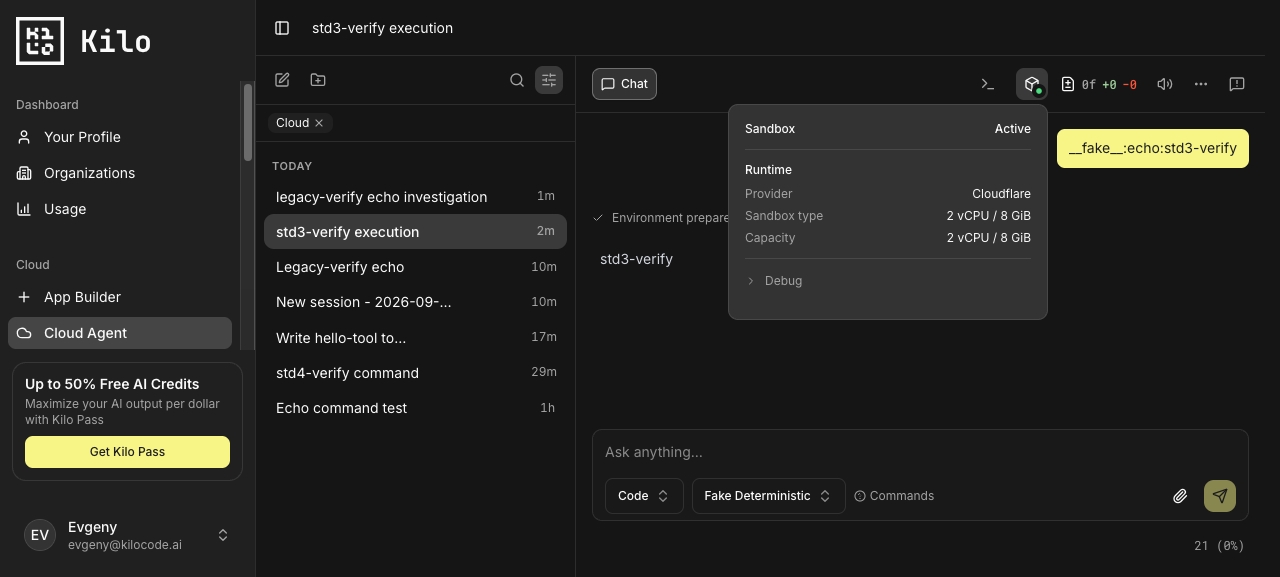
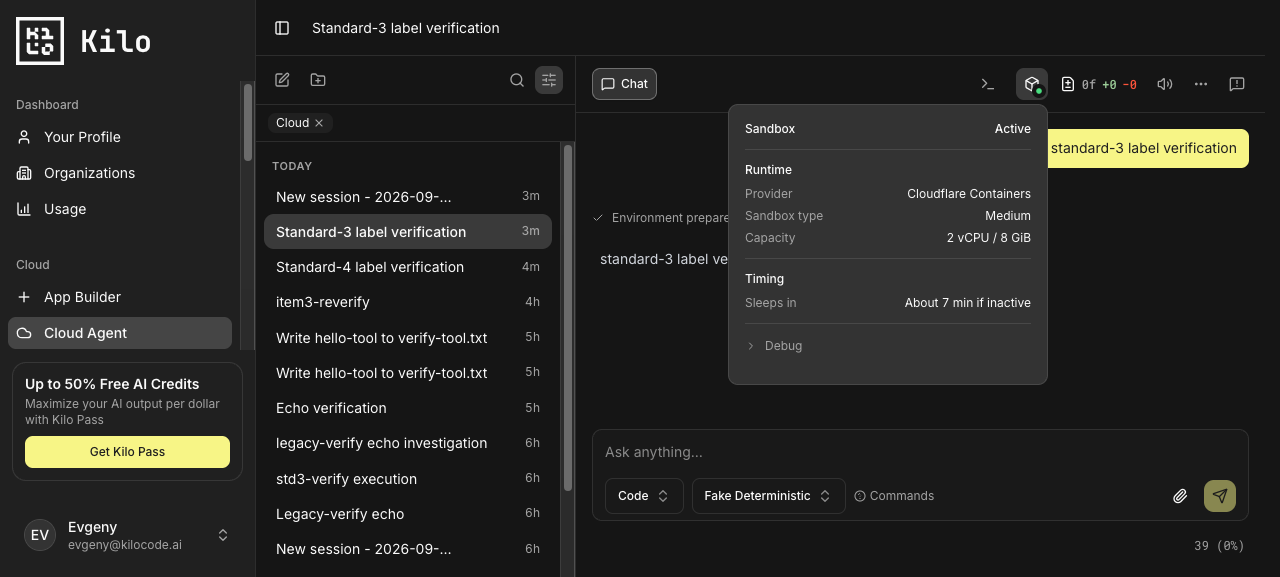
refactor(cloud-agent-next): label sandbox tiers with a memory ladder
Name Cloudflare, Cloudflare Containers and Vercel sandboxes by one memory ladder (Small <= 6 GiB, Medium 8 GiB, Large 12 GiB), so the status popover and the new-session picker use the same words across providers and the containers type row stops repeating the capacity row. Label only: stored identifiers, the sandboxType enum, runtime metadata and capacity numbers are unchanged.

- popover: containers standard-3/4 render Medium/Large; provider reads Cloudflare Containers
- shared tenancy reads Large . Shared so it stays distinct from the dedicated Large at the same capacity
- picker keeps vCPU/memory numbers by resolving capacity from the billing service rather than the label

diff --git a/apps/web/src/components/cloud-agent-next/sandbox-selection.ts b/apps/web/src/components/cloud-agent-next/sandbox-selection.ts
@@ -1,5 +1,7 @@
 import {
+  getKiloSandboxAllocation,
   getSandboxAllocationKey,
+  getSandboxAllocationResources,
   type SelectableSandboxAllocationRequest,
   type SandboxDestination,
   type SandboxSelectionCapabilities,
@@ -26,17 +28,19 @@ const cloudflareServices: Partial<Record<SandboxDestination['instanceType'], str
   shared: 'cloud-agent-next-sandbox',
   'isolated-standard': 'cloud-agent-next-sandbox',
   devcontainer: 'cloud-agent-next-sandbox-dind',
+  'standard-3': 'cloud-agent-next-sandbox-containers-standard3',
+  'standard-4': 'cloud-agent-next-sandbox-containers-standard4',
 };
 
 const instanceLabels: Record<SandboxDestination['instanceType'], string> = {
-  single: 'Single',
-  shared: 'Shared',
-  'isolated-standard': 'Dedicated Standard',
-  'standard-3': '2 vCPU / 8 GiB',
-  'standard-4': '4 vCPU / 12 GiB',
+  single: 'Small',
+  shared: 'Large · Shared',
+  'isolated-standard': 'Large',
+  'standard-3': 'Medium',
+  'standard-4': 'Large',
   devcontainer: 'Dev container',
-  small: '2 vCPU / 4 GiB',
-  large: '4 vCPU / 8 GiB',
+  small: 'Small',
+  large: 'Medium',
   default: 'Provider default',
 };
 
@@ -49,20 +53,49 @@ export function formatSandboxProvider(provider: SandboxDestination['provider']):
 }
 
 /**
+ * Formats the fixed Vercel instance resources. Both accounts run the same
+ * hardware, so the Kilo allocation is the existing mapping to the single
+ * resource table in worker-utils.
+ */
+function formatVercelCapacity(instanceType: 'small' | 'large'): string | null {
+  const resources = getSandboxAllocationResources(
+    getKiloSandboxAllocation({ provider: { id: 'vercel', account: 'kilo' }, instanceType })
+  );
+  return resources
+    ? formatContainerCapacity({
+        vcpu: resources.vcpus,
+        memoryBytes: resources.memory * 1024 ** 2,
+      })
+    : null;
+}
+
+function sandboxDestinationCapacity(destination: SandboxDestination): string | null {
+  const service = cloudflareServices[destination.instanceType];
+  if (service) {
+    const capacity = containerCapacityForService(service);
+    return capacity ? formatContainerCapacity(capacity) : null;
+  }
+  const { instanceType } = destination;
+  if (
+    destination.provider.id === 'vercel' &&
+    (instanceType === 'small' || instanceType === 'large')
+  ) {
+    return formatVercelCapacity(instanceType);
+  }
+  return null;
+}
+
+/**
  * Splits an instance into the capacity every provider can be compared by and the
- * tenancy tier only Cloudflare names on top of it. Vercel publishes no container
- * class, so its instance name already states the capacity.
+ * tenancy tier only the provider names on top of it.
  */
 function getSandboxInstanceLabels(destination: SandboxDestination): {
   capacity: string;
   tier?: string;
 } {
   const name = instanceLabels[destination.instanceType];
-  const service = cloudflareServices[destination.instanceType];
-  const capacity = service ? containerCapacityForService(service) : null;
-  return capacity
-    ? { capacity: formatContainerCapacity(capacity), tier: name }
-    : { capacity: name };
+  const capacity = sandboxDestinationCapacity(destination);
+  return capacity ? { capacity, tier: name } : { capacity: name };
 }
 
 export function formatSandboxCapacity(destination: SandboxDestination): string {
@@ -81,8 +114,8 @@ export function formatSandboxDestination(destination: SandboxDestination | undef
 
 /**
  * Trigger label. Capacity is the part users weigh when picking a sandbox, so it
- * stays; the tenancy tier waits for the open menu. Providers that name no tier —
- * every Vercel instance — get the same string as `formatSandboxDestination`.
+ * stays; the tenancy tier waits for the open menu. Instances without a resolved
+ * capacity fall back to the name.
  */
 export function formatSandboxDestinationWithoutTier(
   destination: SandboxDestination | undefined

diff --git a/apps/web/src/components/cloud-agent-next/sandbox-selection.test.ts b/apps/web/src/components/cloud-agent-next/sandbox-selection.test.ts
@@ -46,28 +46,28 @@ describe('formatSandboxDestination', () => {
     [undefined, 'Default'],
     [
       getSandboxAllocationRequest('cloudflare-single'),
-      'Kilo · Cloudflare · 2 vCPU / 6 GiB · Single',
+      'Kilo · Cloudflare · 2 vCPU / 6 GiB · Small',
     ],
     [
       getSandboxAllocationRequest('cloudflare-shared'),
-      'Kilo · Cloudflare · 4 vCPU / 12 GiB · Shared',
+      'Kilo · Cloudflare · 4 vCPU / 12 GiB · Large · Shared',
     ],
     [
       getSandboxAllocationRequest('cloudflare-containers-standard-3'),
-      'Kilo · Cloudflare Containers · 2 vCPU / 8 GiB',
+      'Kilo · Cloudflare Containers · 2 vCPU / 8 GiB · Medium',
     ],
     [
       getSandboxAllocationRequest('cloudflare-containers-standard-4'),
-      'Kilo · Cloudflare Containers · 4 vCPU / 12 GiB',
+      'Kilo · Cloudflare Containers · 4 vCPU / 12 GiB · Large',
     ],
     [
       getSandboxAllocationRequest('isolated-standard'),
-      'Kilo · Cloudflare · 4 vCPU / 12 GiB · Dedicated Standard',
+      'Kilo · Cloudflare · 4 vCPU / 12 GiB · Large',
     ],
-    [getSandboxAllocationRequest('vercel-small'), 'Kilo · Vercel · 2 vCPU / 4 GiB'],
-    [vercelLarge, 'Kilo · Vercel · 4 vCPU / 8 GiB'],
-    [byocLarge, 'BYOC · Vercel · 4 vCPU / 8 GiB'],
-    [{ ...byocLarge, instanceType: 'small' }, 'BYOC · Vercel · 2 vCPU / 4 GiB'],
+    [getSandboxAllocationRequest('vercel-small'), 'Kilo · Vercel · 2 vCPU / 4 GiB · Small'],
+    [vercelLarge, 'Kilo · Vercel · 4 vCPU / 8 GiB · Medium'],
+    [byocLarge, 'BYOC · Vercel · 4 vCPU / 8 GiB · Medium'],
+    [{ ...byocLarge, instanceType: 'small' }, 'BYOC · Vercel · 2 vCPU / 4 GiB · Small'],
     [
       { provider: { id: 'cloudflare', account: 'kilo' }, instanceType: 'devcontainer' },
       'Kilo · Cloudflare · 2 vCPU / 6 GiB · Dev container',
@@ -149,12 +149,12 @@ describe('formatSandboxCapacity', () => {
 
 describe('formatSandboxInstance', () => {
   it.each([
-    [getSandboxAllocationRequest('cloudflare-single'), '2 vCPU / 6 GiB · Single'],
-    [getSandboxAllocationRequest('cloudflare-shared'), '4 vCPU / 12 GiB · Shared'],
-    [getSandboxAllocationRequest('cloudflare-containers-standard-3'), '2 vCPU / 8 GiB'],
-    [getSandboxAllocationRequest('cloudflare-containers-standard-4'), '4 vCPU / 12 GiB'],
-    [getSandboxAllocationRequest('vercel-small'), '2 vCPU / 4 GiB'],
-    [byocLarge, '4 vCPU / 8 GiB'],
+    [getSandboxAllocationRequest('cloudflare-single'), '2 vCPU / 6 GiB · Small'],
+    [getSandboxAllocationRequest('cloudflare-shared'), '4 vCPU / 12 GiB · Large · Shared'],
+    [getSandboxAllocationRequest('cloudflare-containers-standard-3'), '2 vCPU / 8 GiB · Medium'],
+    [getSandboxAllocationRequest('cloudflare-containers-standard-4'), '4 vCPU / 12 GiB · Large'],
+    [getSandboxAllocationRequest('vercel-small'), '2 vCPU / 4 GiB · Small'],
+    [byocLarge, '4 vCPU / 8 GiB · Medium'],
     [{ provider: { id: 'vercel', account: 'kilo' }, instanceType: 'default' }, 'Provider default'],
   ] satisfies Array<[SandboxDestination, string]>)(
     'formats an instance without repeating its account/provider heading: %j',

diff --git a/apps/web/src/components/cloud-agent-next/sandbox-status.test.ts b/apps/web/src/components/cloud-agent-next/sandbox-status.test.ts
@@ -225,7 +225,7 @@ describe('sandbox status presentation', () => {
     }
   );
 
-  it.each(['Cloudflare', 'Vercel', 'Unknown'] as const)(
+  it.each(['Cloudflare', 'Cloudflare Containers', 'Vercel', 'Unknown'] as const)(
     'uses the bounded %s provider',
     provider => {
       expect(
@@ -508,7 +508,7 @@ describe('sandbox status presentation', () => {
     });
     expect(view).toMatchObject({
       provider: 'Cloudflare',
-      sandboxType: 'Standard',
+      sandboxType: 'Large',
       kiloCliVersion: '7.4.20',
       wrapperVersion: '2.4.0',
       startedAt: now - 600_000,
@@ -573,7 +573,7 @@ describe('sandbox status presentation', () => {
     ).toMatchObject({
       ...versions,
       status: 'active',
-      sandboxType: 'Standard',
+      sandboxType: 'Large',
       startedAt: now - 600_000,
       stoppedAt: null,
     });
@@ -594,7 +594,7 @@ describe('sandbox status presentation', () => {
     ).toMatchObject({
       status: 'unknown',
       provider: 'Cloudflare',
-      sandboxType: 'Standard',
+      sandboxType: 'Large',
       kiloCliVersion: '7.4.20',
       wrapperVersion: '2.4.0',
       startedAt: now - 600_000,
@@ -708,20 +708,24 @@ describe('sandbox status capacity', () => {
   });
 
   it.each([
-    ['containers-standard-3', '2 vCPU / 8 GiB'],
-    ['containers-standard-4', '4 vCPU / 12 GiB'],
+    ['containers-standard-3', 'Medium', '2 vCPU / 8 GiB'],
+    ['containers-standard-4', 'Large', '4 vCPU / 12 GiB'],
   ] as const)(
     'presents the containers instance %s as its type and capacity',
-    (sandboxType, phrase) => {
+    (sandboxType, typeLabel, capacity) => {
       expect(
         sandboxStatusPresentation({
           ...observation,
-          data: { ...snapshot, runtime: { ...runtime, sandboxType } },
+          data: {
+            ...snapshot,
+            provider: 'Cloudflare Containers',
+            runtime: { ...runtime, sandboxType },
+          },
         })
       ).toMatchObject({
-        provider: 'Cloudflare',
-        sandboxType: phrase,
-        capacity: phrase,
+        provider: 'Cloudflare Containers',
+        sandboxType: typeLabel,
+        capacity,
       });
     }
   );

diff --git a/apps/web/tests/e2e/cloud-agent-sandbox-status.spec.ts b/apps/web/tests/e2e/cloud-agent-sandbox-status.spec.ts
@@ -1254,7 +1254,7 @@ test.describe('control-plane sandbox header', () => {
     ).toBeVisible();
     for (const [label, value] of [
       ['Provider', 'Cloudflare'],
-      ['Sandbox type', 'Standard'],
+      ['Sandbox type', 'Large'],
     ]) {
       await expect(detailValue(details(page), label)).toHaveText(value);
     }
@@ -1420,7 +1420,7 @@ test.describe('control-plane sandbox header', () => {
     ).toBeVisible();
     await expect(details(page).getByRole('heading', { name: 'Timing', exact: true })).toBeVisible();
     await expect(detailValue(details(page), 'Provider')).toHaveText('Cloudflare');
-    await expect(detailValue(details(page), 'Sandbox type')).toHaveText('Standard');
+    await expect(detailValue(details(page), 'Sandbox type')).toHaveText('Large');
     await expect(sleepTime(page)).toHaveText('About 3 min if inactive');
     await expectDebugCollapsed(page);
     await expect(details(page)).toHaveCSS('width', '320px');
@@ -1921,7 +1921,7 @@ test.describe('control-plane sandbox header', () => {
       await expect(indicator(page)).toHaveAccessibleName('Sandbox status: Active');
       await indicator(page).click();
       await expect(detailValue(details(page), 'Provider')).toHaveText('Cloudflare');
-      await expect(detailValue(details(page), 'Sandbox type')).toHaveText('Standard');
+      await expect(detailValue(details(page), 'Sandbox type')).toHaveText('Large');
       await debugSummary(page).click();
       await expectDebugValues(page, runtimeMetadata.kiloCliVersion, runtimeMetadata.wrapperVersion);
       await expect(detailValue(details(page), 'Started').locator('time')).toHaveAttribute(

diff --git a/services/cloud-agent-next/src/container-capacity-parity.test.ts b/services/cloud-agent-next/src/container-capacity-parity.test.ts
@@ -7,10 +7,7 @@ import { describe, expect, it } from 'vitest';
 
 import { CLOUDFLARE_CONTAINERS_INSTANCES } from '@kilocode/worker-utils/sandbox-allocation';
 
-import {
-  containerCapacityForService,
-  formatContainerCapacity,
-} from '../../../apps/web/src/lib/cloudflare/container-capacity.js';
+import { containerCapacityForService } from '../../../apps/web/src/lib/cloudflare/container-capacity.js';
 import {
   CONTAINERS_BILLING_CAPACITIES,
   containersBillingIdentity,
@@ -110,11 +107,7 @@ describe('production container capacity parity', () => {
     for (const { instance, identity } of resolved) {
       const { capacity } = identity;
       expect(webSource).toContain(
-        `'${instance}': '${formatContainerCapacity({
-          vcpu: capacity.vcpu,
-          memoryBytes: capacity.memoryMiB * 1024 ** 2,
-          diskBytes: capacity.diskMB * 1_000_000,
-        })}',`
+        `'${instance}': '${usageServiceForSandboxClass(identity.className)}',`
       );
       expect(containerCapacityForService(usageServiceForSandboxClass(identity.className))).toEqual({
         vcpu: capacity.vcpu,
@@ -123,7 +116,7 @@ describe('production container capacity parity', () => {
       });
     }
 
-    // Web labels show vCPU and memory only; disk follows the Cloudflare instance-type table.
+    // Web labels name the memory ladder tier; disk follows the Cloudflare instance-type table.
     expect(CONTAINERS_BILLING_CAPACITIES.SandboxContainersStandard3.diskMB).toBe(16_000);
     expect(CONTAINERS_BILLING_CAPACITIES.SandboxContainersStandard4.diskMB).toBe(20_000);
   });

diff --git a/services/cloud-agent-next/src/shared/sandbox-status.test.ts b/services/cloud-agent-next/src/shared/sandbox-status.test.ts
@@ -80,7 +80,7 @@ describe('sandbox status public contract', () => {
     expect(SandboxStatusSnapshotSchema.parse(input)).toEqual(input);
   });
 
-  it.each(['Cloudflare', 'Vercel', 'Unknown'])(
+  it.each(['Cloudflare', 'Cloudflare Containers', 'Vercel', 'Unknown'])(
     'accepts only a bounded provider label: %s',
     provider => {
       expect(SandboxStatusSnapshotSchema.parse({ ...snapshot, provider }).provider).toBe(provider);
@@ -328,7 +328,7 @@ describe('getSandboxProviderLabel', () => {
   it.each([
     ['cloudflare', 'Cloudflare'],
     ['vercel', 'Vercel'],
-    ['cloudflare-containers', 'Cloudflare'],
+    ['cloudflare-containers', 'Cloudflare Containers'],
   ])('maps the stored provider %s to %s', (provider, label) => {
     expect(getSandboxProviderLabel(provider)).toBe(label);
   });

diff --git a/services/cloud-agent-next/src/shared/sandbox-status.ts b/services/cloud-agent-next/src/shared/sandbox-status.ts
@@ -23,7 +23,12 @@ export type PhysicalState = 'stopped' | 'creating' | 'running' | 'stopping' | 'f
 
 export type ConnectionState = 'disconnected' | 'connected' | 'ready';
 
-export const SandboxProviderLabelSchema = z.enum(['Cloudflare', 'Vercel', 'Unknown']);
+export const SandboxProviderLabelSchema = z.enum([
+  'Cloudflare',
+  'Cloudflare Containers',
+  'Vercel',
+  'Unknown',
+]);
 
 export type SandboxProviderLabel = z.infer<typeof SandboxProviderLabelSchema>;
 
@@ -34,7 +39,7 @@ export function getSandboxProviderLabel(provider: unknown): SandboxProviderLabel
     case 'vercel':
       return 'Vercel';
     case 'cloudflare-containers':
-      return 'Cloudflare';
+      return 'Cloudflare Containers';
     default:
       return 'Unknown';
   }

diff --git a/services/cloud-agent-next/src/sandbox-control/lifecycle.test.ts b/services/cloud-agent-next/src/sandbox-control/lifecycle.test.ts
@@ -1284,7 +1284,7 @@ describe('SandboxControl lifecycle boundaries', () => {
       provider: 'cloudflare-containers',
     });
     expect(snapshot).toMatchObject({
-      provider: 'Cloudflare',
+      provider: 'Cloudflare Containers',
       runtime: { sandboxType: 'containers-standard-3' },
     });
     expect([...h.records]).toEqual(before);
@@ -1477,7 +1477,7 @@ describe('SandboxControl lifecycle boundaries', () => {
       h.control.getSandboxStatus({ ownerId: OWNER, provider: 'cloudflare-containers' })
     ).resolves.toMatchObject({
       status: 'active',
-      provider: 'Cloudflare',
+      provider: 'Cloudflare Containers',
       estimatedSleepAt: now + DEADLINE_MS.idleStop,
     });
     await expect(

diff --git a/apps/web/src/components/cloud-agent-next/sandbox-status.ts b/apps/web/src/components/cloud-agent-next/sandbox-status.ts
@@ -68,13 +68,13 @@ const statusLabels = {
 type SandboxType = NonNullable<NonNullable<SandboxStatusSnapshot['runtime']>['sandboxType']>;
 
 const sandboxTypes = {
-  shared: 'Shared',
+  shared: 'Large · Shared',
   'isolated-small': 'Small',
-  'isolated-standard': 'Standard',
+  'isolated-standard': 'Large',
   'code-review': 'Code review',
   devcontainer: 'Custom environment',
-  'containers-standard-3': '2 vCPU / 8 GiB',
-  'containers-standard-4': '4 vCPU / 12 GiB',
+  'containers-standard-3': 'Medium',
+  'containers-standard-4': 'Large',
   unknown: 'Unknown',
 } satisfies Record<SandboxType, string>;
 

diff --git a/apps/web/src/routers/cloud-agent-next-schemas.test.ts b/apps/web/src/routers/cloud-agent-next-schemas.test.ts
@@ -50,7 +50,7 @@ const sandboxLifecycleCases = [
 
 describe('baseGetSandboxStatusNextOutputSchema', () => {
   it.each(sandboxLifecycleCases)('accepts $status with $detailCode', lifecycle => {
-    for (const provider of ['Cloudflare', 'Vercel', 'Unknown']) {
+    for (const provider of ['Cloudflare', 'Cloudflare Containers', 'Vercel', 'Unknown']) {
       const response = { ...sandboxSnapshot, ...lifecycle, provider };
       expect(baseGetSandboxStatusNextOutputSchema.parse(response)).toEqual(response);
     }

diff --git a/apps/web/src/lib/cloudflare/container-capacity.ts b/apps/web/src/lib/cloudflare/container-capacity.ts
@@ -38,7 +38,7 @@ export function containerCapacityForService(service: string): ContainerCapacity 
   }
 }
 
-export function formatContainerCapacity(capacity: ContainerCapacity): string {
+export function formatContainerCapacity(capacity: { vcpu: number; memoryBytes: number }): string {
   return `${capacity.vcpu} vCPU / ${capacity.memoryBytes / 1024 ** 3} GiB`;
 }
 
